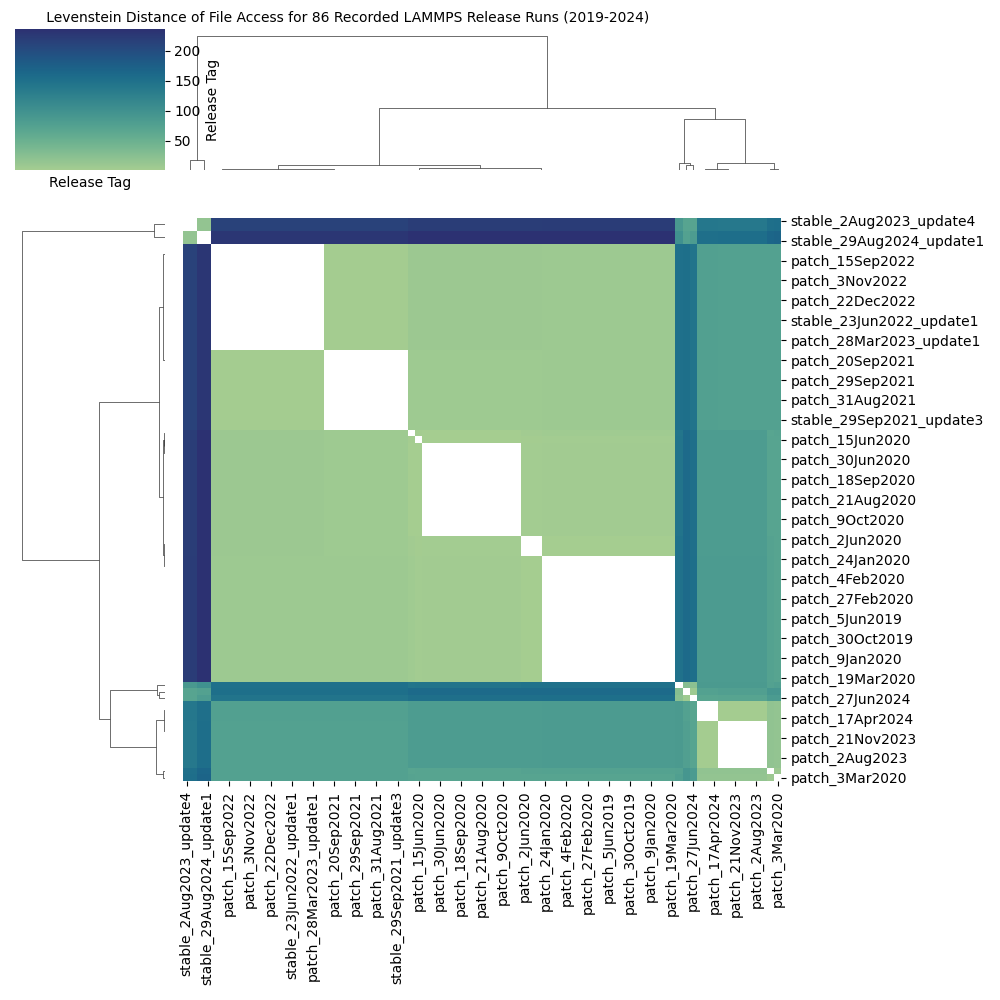
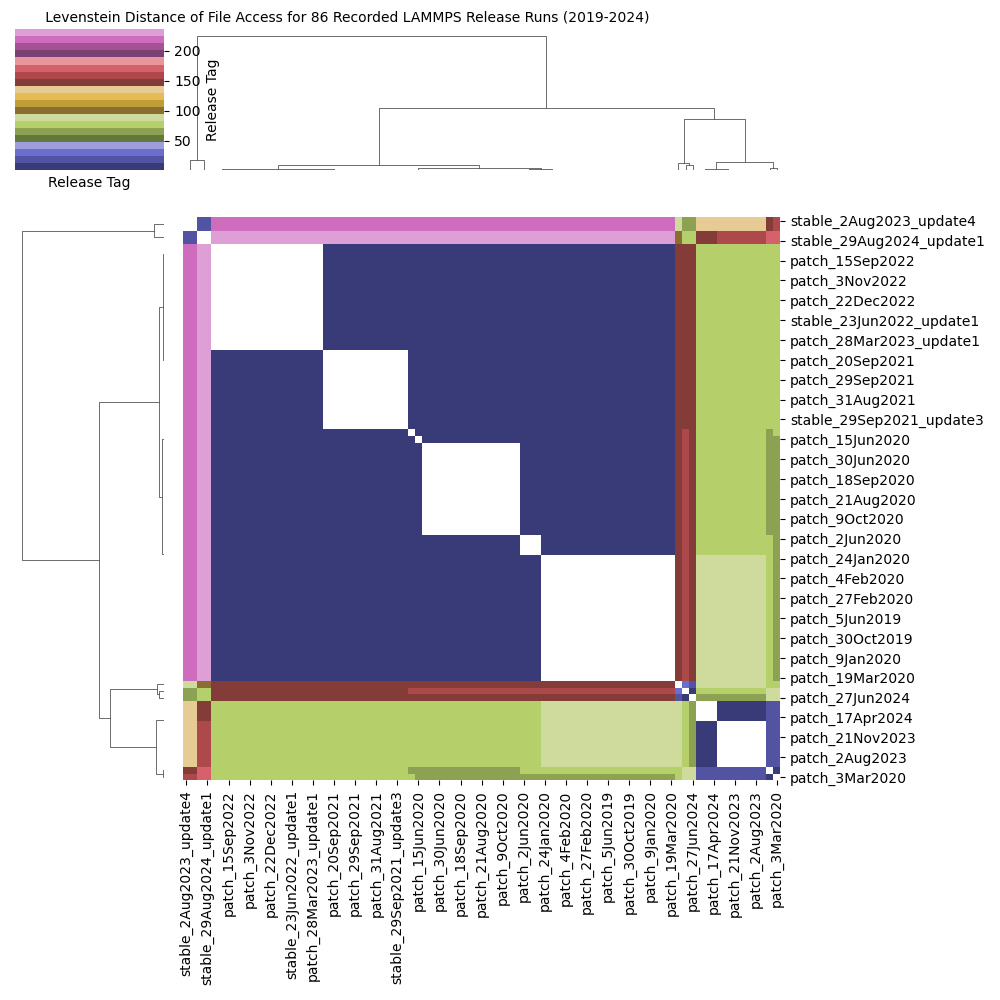
update colormaps and plots to include all

diff --git a/fuse/analysis/container_recorder.py b/fuse/analysis/container_recorder.py
@@ -5,6 +5,7 @@ import sys
 
 import matplotlib.pylab as plt
 import networkx as nx
+import numpy
 import pandas
 import seaborn as sns
 from matplotlib.colors import TwoSlopeNorm
@@ -56,9 +57,7 @@ class Filesystem:
         self.min_count = 0
         self.max_count = 0
 
-    def get_graph(
-        self, node_color="skyblue", font_size=10, tree=True, node_size=1500, title=None
-    ):
+    def get_graph(self, font_size=10, tree=True, node_size=1000, title=None):
         """
         Get a plot for a trie
         """
@@ -66,15 +65,19 @@ class Filesystem:
         graph = nx.DiGraph()
 
         # Recursive function to walk through root, etc.
-        # We also return
         color_counts = {}
         get_counts(counts=color_counts, node=self.root)
         add_to_graph(graph=graph, root=self.root, node=self.root)
 
-        # Color based on count
-        colors = derive_node_colors(
-            min_count=self.min_count, max_count=self.max_count + 1
-        )
+        # Set a filter for the highest color so it doesn't bias the entire plot
+        unique_counts = list(set(list(color_counts.values())))
+        unique_counts.sort()
+        without_outliers = reject_outliers(unique_counts)
+
+        # Color based on count (outliers removed)!
+        min_count = without_outliers[0]
+        max_count = without_outliers[-1]
+        colors = derive_node_colors(min_count=min_count, max_count=max_count + 1)
 
         # We only want to get colors that match the count, so the scale is relevant
         node_colors = []
@@ -87,15 +90,30 @@ class Filesystem:
                 new_labels[node] = node
             else:
                 count = color_counts[node]
-                new_labels[node] = f"{node}\n{count}"
+                # Don't put label if count is 0!
+                if count == 0:
+                    new_labels[node] = node
+                else:
+                    new_labels[node] = f"{node}\n{count}"
+
+            # This adjusts the color scale within the range
+            # that does not have outliers
+            if count < min_count:
+                count = min_count
+            if count > max_count:
+                count = max_count
             node_colors.append(colors[count])
 
         # Tree visualization (much better) requires graphviz, dot, etc.
         if tree:
-            try:
-                pos = nx.nx_agraph.graphviz_layout(graph, prog="dot")
-            except:
-                sys.exit("conda install --channel conda-forge pygraphviz")
+            for i, layer in enumerate(nx.topological_generations(graph)):
+                for n in layer:
+                    graph.nodes[n]["layer"] = i
+            pos = nx.multipartite_layout(graph, subset_key="layer", align="horizontal")
+
+            # Flip the layout so the root node is on top
+            for k in pos:
+                pos[k][-1] *= -1
         else:
             pos = nx.spring_layout(graph)
 
@@ -106,6 +124,7 @@ class Filesystem:
             graph,
             pos,
             with_labels=False,
+            alpha=0.5,
             node_size=node_size,
             node_color=node_colors,
             font_size=font_size,
@@ -117,16 +136,22 @@ class Filesystem:
         plt.tight_layout()
         return graph
 
-    def insert(self, path, count=0):
+    def insert(self, path, count=0, remove_so_version=True):
         """
         Insert an INode into the filesystem.
 
-        If we are adding a count, increment by it.
+        If we are adding a count, increment by it. We also build the tree
+        without .so.<version> to compare across.
         """
+        if remove_so_version and ".so." in path:
+            path = path.split(".so.")[0] + ".so"
         node = self.root
+        partial_path = []
         for part in path.split(os.sep):
+            partial_path.append(part)
             if part not in node.children:
-                node.children[part] = INode(path)
+                assembled_path = os.sep.join(partial_path)
+                node.children[part] = INode(assembled_path)
             node = node.children[part]
         node.increment(count)
 
@@ -146,6 +171,17 @@ class Filesystem:
                 return
             node = node.children[part]
         return node
+
+
+def reject_outliers(data, m=2.0):
+    """
+    Reject outliers to derive the color scale.
+    """
+    # Median isn't influenced by outliers
+    d = numpy.abs(data - numpy.median(data))
+    mdev = numpy.median(d)
+    s = d / mdev if mdev else numpy.zeros(len(d))
+    return numpy.array(data)[s < m]
 
 
 class Traces:
@@ -296,11 +332,11 @@ def add_to_graph(graph, root, node, parent=None):
         add_to_graph(graph=graph, root=root, node=child, parent=node)
 
 
-def derive_node_colors(min_count, max_count, start=0, end=150):
+def derive_node_colors(min_count, max_count):
     """
     Given the min, max, and a center, return a range of colors
     """
-    palette = sns.diverging_palette(start, end, n=256, as_cmap=True)
+    palette = plt.cm.get_cmap("viridis")
     center = int(abs(max_count - min_count) / 2)
     norm = TwoSlopeNorm(vmin=min_count, vcenter=center, vmax=max_count)
     return [palette(norm(c)) for c in range(min_count, max_count)]

diff --git a/fuse/analysis/plot-recording.py b/fuse/analysis/plot-recording.py
@@ -29,7 +29,7 @@ def get_parser():
         "-n",
         help="Plot the top N paths",
         type=int,
-        default=20,
+        default=None,
     )
     return parser
 
@@ -45,11 +45,13 @@ def main():
 
     simcalc = Traces(events)
 
-    # Get all counts so we can get the top 10 across them
+    # Get all counts so we can get the top N (if specified) across them
     counts = simcalc.all_counts()
-    if len(counts) < args.n:
+    if args.n is not None and len(counts) < args.n:
         args.n = len(counts) - 1
-    shared_paths = list(counts)[: args.n]
+        shared_paths = list(counts)[: args.n]
+    else:
+        shared_paths = list(counts)
 
     # We will make a nice heatmap of files by recorded opens
     df = pandas.DataFrame(0, columns=shared_paths, index=simcalc.files)
@@ -65,13 +67,23 @@ def main():
 
     plt.figure(figsize=(20, 20))
     df.index = [os.path.basename(x) for x in df.index]
-    sns.clustermap(df, mask=(df == 0.0), cmap="crest")
+    sns.clustermap(df, mask=(df == 0.0), cmap="viridis")
+
+    if args.n is not None:
+        save_path = f"{args.name}-top-{args.n}-recorded-paths.png"
+        title = f"{args.name} Top (N={args.n}) Recorded Paths"
+        trie_title = (
+            f"Filesystem Recording Trie for {args.name} Top {args.n} Recorded Paths"
+        )
+        trie_save = f"{args.name}-top-{args.n}-recorded-paths-trie.png"
+    else:
+        save_path = f"{args.name}-recorded-paths.png"
+        title = f"{args.name} Top Recorded Paths"
+        trie_title = f"Filesystem Recording Trie for {args.name} Top Recorded Paths"
+        trie_save = f"{args.name}-top-recorded-paths-trie.png"
 
     # Save all the things!
-    plot_path = os.path.join(
-        args.outdir, f"{args.name}-top-{args.n}-recorded-paths.png"
-    )
-    title = f"{args.name} Top (N={args.n}) Recorded Paths"
+    plot_path = os.path.join(args.outdir, save_path)
     plt.title(title.rjust(70), fontsize=10)
     plt.tight_layout()
     plt.savefig(plot_path)
@@ -81,17 +93,13 @@ def main():
     fs = Filesystem()
     for i, (path, count) in enumerate(counts.items()):
         # Only plot top N requested by user
-        if i > args.n:
+        if args.n is not None and i > args.n:
             break
         fs.insert(path, count=count)
 
     # Generate graph. This adds to matplotlib context
-    fs.get_graph(
-        title=f"Filesystem Recording Trie for {args.name} Top {args.n} Recorded Paths"
-    )
-    plot_path = os.path.join(
-        args.outdir, f"{args.name}-top-{args.n}-recorded-paths-trie.png"
-    )
+    fs.get_graph(title=trie_title)
+    plot_path = os.path.join(args.outdir, trie_save)
     plt.savefig(plot_path)
 
     # How to interact with fs

diff --git a/fuse/analysis/analyze-recording.py b/fuse/analysis/analyze-recording.py
@@ -45,7 +45,7 @@ def main():
     sims.index = [x.replace(".out", "").replace("lammps-", "") for x in sims.index]
     sims.columns = [x.replace(".out", "").replace("lammps-", "") for x in sims.columns]
     plt.figure(figsize=(20, 20))
-    sns.clustermap(sims.astype(float), mask=(sims == 0.0), cmap="crest")
+    sns.clustermap(sims.astype(float), mask=(sims == 0.0), cmap="tab20b")
 
     # Save all the things!
     plot_path = os.path.join(args.outdir, f"{args.name}-levenstein-distance-matrix.png")

diff --git a/fuse/analysis/analyze-output.py b/fuse/analysis/analyze-output.py
@@ -159,7 +159,9 @@ def plot_results(df, outdir):
         data=metric_df,
         palette=palette,
     )
-    title = f"LAMMPS Metric {metric} ({problem_size}) Releases Over {number_years} Years"
+    title = (
+        f"LAMMPS Metric {metric} ({problem_size}) Releases Over {number_years} Years"
+    )
     plt.title(title)
     ax.set_xlabel("Release Tag", fontsize=12)
     ax.set_ylabel(metric.split("_"), fontsize=12)

diff --git a/fuse/analysis/README.md b/fuse/analysis/README.md
@@ -54,7 +54,7 @@ python plot-recording.py $(find ../recording -name *.out)
 In the above, we create a heatmap where access is relative to the whole set (darker is accessed the most).
 This means in the plot below, darker regions are accessed more. If colors are the same, the paths we acceessed the same number of times. It's fairly simple like that.
 
-![img/LAMMPS-top-20-recorded-paths.png](img/LAMMPS-top-20-recorded-paths.png )
+![img/LAMMPS-top-recorded-paths.png](img/LAMMPS-top-recorded-paths.png )
 
 ### 3. Trie to Describe patterns
 
@@ -65,7 +65,7 @@ conda install --channel conda-forge pygraphviz
 ```
 This took me two hours to write the code for - I wanted the colors to correspond to counts, and be relative to one another, and for the labels to be rotated. Worth it!
 
-![img/LAMMPS-top-20-recorded-paths-trie.png](img/LAMMPS-top-20-recorded-paths-trie.png )
+![img/LAMMPS-top-recorded-paths-trie.png](img/LAMMPS-top-recorded-paths-trie.png )
 
 ### 4. Output changes
 
